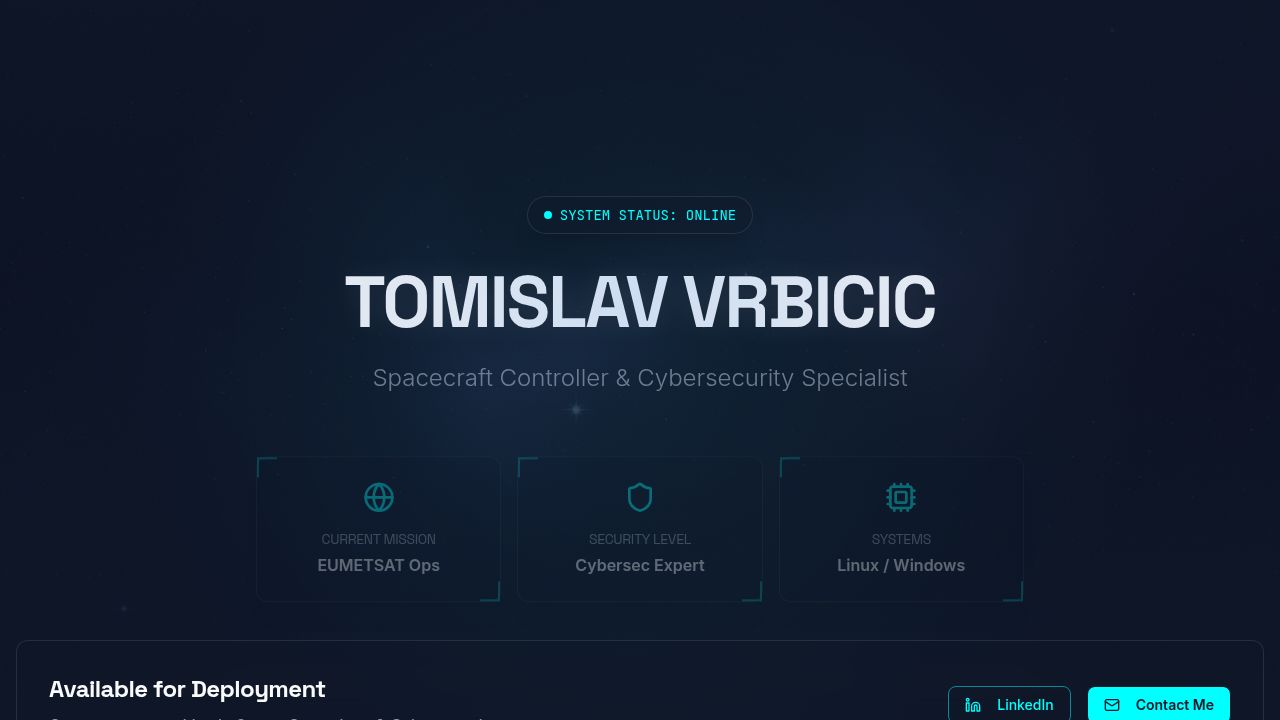
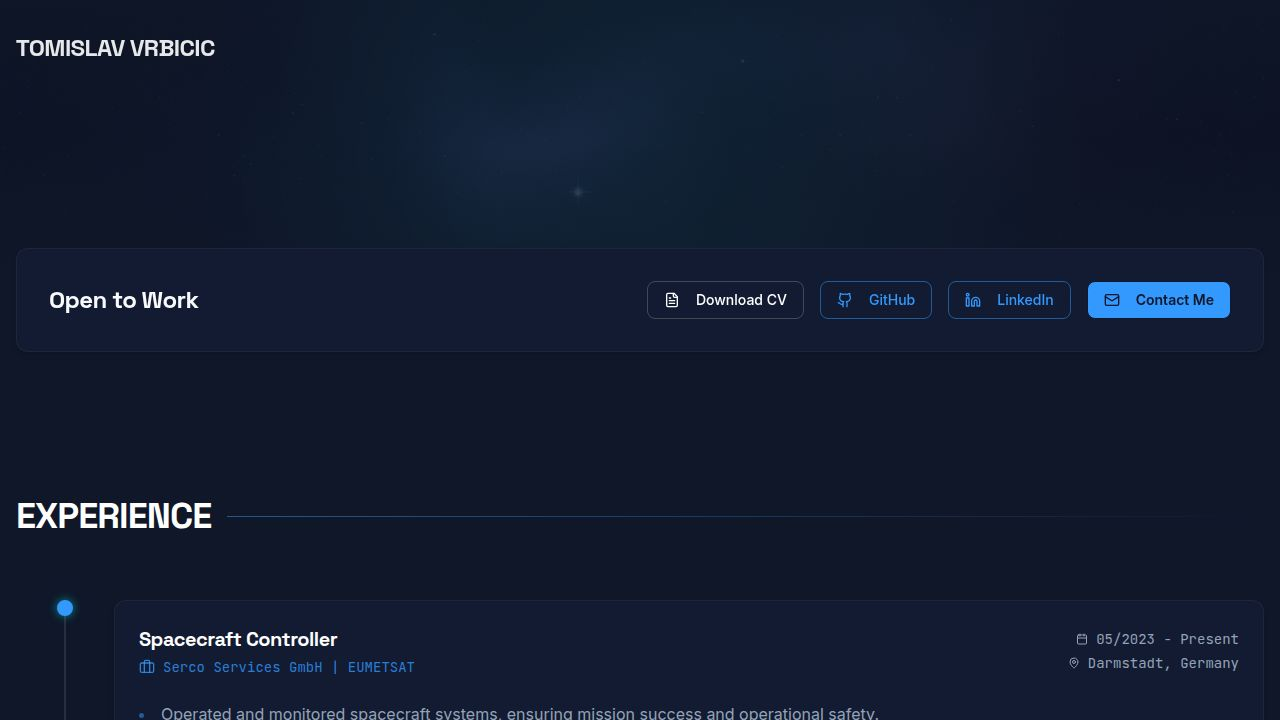
Adjust hero section to position name in the top-left corner
Refactors the hero section in `client/src/components/hero.tsx` to display the name "TOMISLAV VRBICIC" in the top-left corner with adjusted styling, and removes previously centered content and a bouncing arrow.

Replit-Commit-Author: Agent
Replit-Commit-Session-Id: 491c122e-ed55-4c72-9ac2-e94696e6747e
Replit-Commit-Checkpoint-Type: full_checkpoint
Replit-Commit-Event-Id: 59a46e4b-90e0-452f-9ff3-402382c2e77d
Replit-Commit-Screenshot-Url: https://storage.googleapis.com/screenshot-production-us-central1/79640ed0-4ef9-46d8-ad36-fc4084d670c7/491c122e-ed55-4c72-9ac2-e94696e6747e/ZNss7Zi
Replit-Helium-Checkpoint-Created: true

diff --git a/client/src/components/hero.tsx b/client/src/components/hero.tsx
@@ -60,7 +60,7 @@ const SpaceStation = ({ className, delay = 0, duration = 30 }: { className?: str
 
 export default function Hero() {
   return (
-    <section className="relative min-h-[60vh] flex items-center justify-center overflow-hidden pt-16 pb-0">
+    <section className="relative min-h-[40vh] flex flex-col justify-start overflow-hidden pt-8">
       {/* Background Image with Overlay */}
       <div className="absolute inset-0 z-0">
         <img 
@@ -79,29 +79,20 @@ export default function Hero() {
         </div>
       </div>
 
-      <div className="container mx-auto px-4 z-10 relative">
-        <div className="max-w-4xl mx-auto text-center">
-
-          <motion.h1 
-            initial={{ opacity: 0, scale: 0.9 }}
-            animate={{ opacity: 1, scale: 1 }}
-            transition={{ duration: 0.7, delay: 0.2 }}
-            className="text-3xl md:text-5xl font-bold mb-0 font-display tracking-tighter text-transparent bg-clip-text bg-gradient-to-r from-white via-blue-100 to-white drop-shadow-[0_0_15px_rgba(255,255,255,0.1)]"
-          >
+      <div className="container mx-auto px-4 z-10 relative w-full">
+        <motion.div 
+          initial={{ opacity: 0, x: -20 }}
+          animate={{ opacity: 1, x: 0 }}
+          transition={{ duration: 0.7, delay: 0.2 }}
+          className="flex justify-start"
+        >
+          <h1 className="text-xl md:text-2xl font-bold font-display tracking-tighter text-white/90">
             TOMISLAV VRBICIC
-          </motion.h1>
-
-        </div>
+          </h1>
+        </motion.div>
       </div>
 
-      <motion.div 
-        initial={{ opacity: 0 }}
-        animate={{ opacity: 1 }}
-        transition={{ delay: 1.5, duration: 1 }}
-        className="absolute bottom-4 left-1/2 transform -translate-x-1/2 animate-bounce text-muted-foreground"
-      >
-        <ChevronDown className="w-6 h-6" />
-      </motion.div>
+      {/* Removed the centered content and bouncing arrow as per "and rest" implication of moving things up/simplifying */}
     </section>
   );
 }
